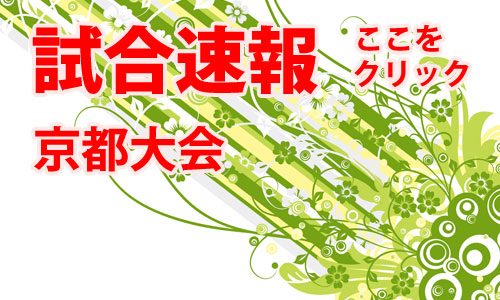
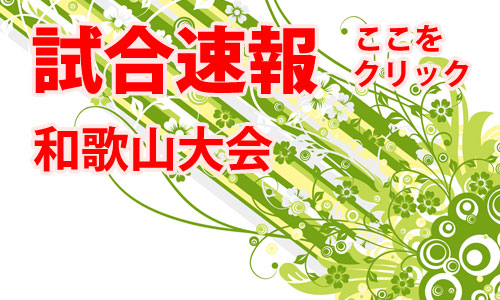
和歌山大会の試合速報を追加

Changed region(s): [[0.06, 0.39, 0.57, 0.6]]

diff --git a/index.html b/index.html
@@ -71,12 +71,10 @@ $(document).ready(function(){
           和歌山大会</span></a>
         </li>
         -->
-        <!--
         <li class="ui-tabs-nav-item" id="nav-fragment-4">
           <a href="#fragment-4"><img src="images/slide_flash_report.jpg" width="106" height="66" /><span>試合速報<br />
-          八尾大会</span></a>
+          和歌山大会</span></a>
         </li>
-        -->
       </ul>
       
       <!-- 大スライド -->
@@ -115,8 +113,7 @@ $(document).ready(function(){
       </a>
       -->
       <!-- Fourth Content -->
-      <!--
-      <a href="https://www.dropbox.com/sh/wn124q5w1wl18zj/7KTE-v8fDV"  target="_blank">
+      <a href="https://www.dropbox.com/sh/hxnh40h751gq4wv/uTLHTx19VN"  target="_blank">
       <div id="fragment-4" class="ui-tabs-panel" style="">
         <img src="images/slide_flash_report.jpg"/>
         <div class="info" >
@@ -125,7 +122,6 @@ $(document).ready(function(){
         </div>
       </div>
       </a>
-      -->
     </div>
     <!-- #featured -->
   </div>
@@ -154,6 +150,9 @@ $(document).ready(function(){
       <h2>最新のお知らせ</h2>
       <ul>
         <li id="newsFirst">
+          <a href="https://www.dropbox.com/sh/hxnh40h751gq4wv/uTLHTx19VN" target="_blank">2014年02月02日：和歌山大会の試合速報を追加 <img src="images/newsArrow.jpg" width="13px" height="13px"/></a>
+        </li>
+        <li>
           <a href="html/summary/summary_201403_maishima.html">2014年01月26日：舞洲大会の大会要項を追加 <img src="images/newsArrow.jpg" width="13px" height="13px"/></a>
         </li>
         <li>
@@ -161,9 +160,6 @@ $(document).ready(function(){
         </li>
         <li>
           <a href="https://www.dropbox.com/sh/eprxv9rnzznv8tg/9R-Q0f6qyS" target="_blank">2013年12月14日：京都大会の試合速報を追加 <img src="images/newsArrow.jpg" width="13px" height="13px"/></a>
-        </li>
-        <li>
-          <a href="html/summary/summary_201402_wakayama.html">2013年12月14日：和歌山大会の大会要項を追加 <img src="images/newsArrow.jpg" width="13px" height="13px"/></a>
         </li>
       </ul>
       <div id="newsBottom"></div>
